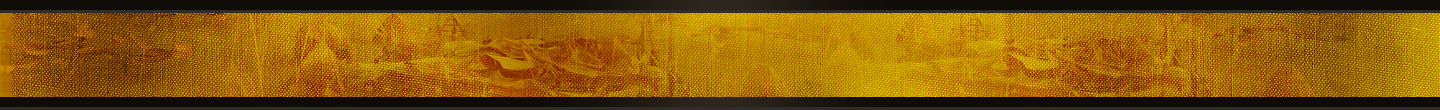
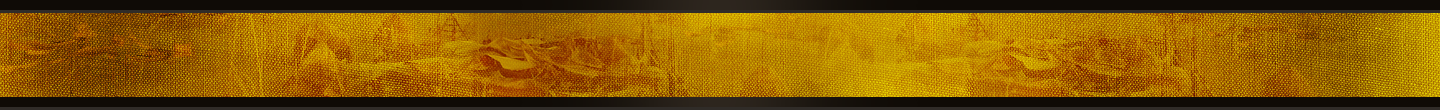
[uodate] menu

diff --git a/src/assets/styles/_header.scss b/src/assets/styles/_header.scss
@@ -2,6 +2,18 @@ header {
     &.desert {
         background: url('assets/images/backgrounds/bg-header-desert.png') no-repeat;
     }
+    &.farm {
+        background: url('assets/images/backgrounds/bg-header-farm.png') no-repeat;
+    }
+    &.trade {
+        background: url('assets/images/backgrounds/bg-header-trade.png') no-repeat;
+    }
+    &.fishing {
+        background: url('assets/images/backgrounds/bg-header-fishing.png') no-repeat;
+    }
+    &.forest {
+        background: url('assets/images/backgrounds/bg-header-forest.png') no-repeat;
+    }
 
     &.no-menu {
         .container {
@@ -68,12 +80,47 @@ header {
                 display: block;
                 position: relative;
                 max-width: 140px;
+                min-height: 110px;
                 padding: 10px 20px;
                 margin: auto;
 
+                &.desert {
+                    &:before {
+                        background: url('assets/images/common/avatar-frame-desert.png') no-repeat;
+                        background-size: contain;
+                        background-position: center center;
+                    }
+                }
+                &.forest {
+                    &:before {
+                        background: url('assets/images/common/avatar-frame-forest.png') no-repeat;
+                        background-size: contain;
+                        background-position: center center;
+                    }
+                }
+                &.trade {
+                    &:before {
+                        background: url('assets/images/common/avatar-frame-trade.png') no-repeat;
+                        background-size: contain;
+                        background-position: center center;
+                    }
+                }
+                &.farm {
+                    &:before {
+                        background: url('assets/images/common/avatar-frame-farm.png') no-repeat;
+                        background-size: contain;
+                        background-position: center center;
+                    }
+                }
+                &.fishing {
+                    &:before {
+                        background: url('assets/images/common/avatar-frame-fishing.png') no-repeat;
+                        background-size: contain;
+                        background-position: center center;
+                    }
+                }
+
                 &:before {
-                    background: url('assets/images/common/avatar-frame-desert.png') no-repeat;
-                    background-position: center center;
                     content: '';
                     position: absolute;
                     width: 100%;
@@ -99,8 +146,10 @@ header {
             align-self: center;
             .logo {
                 max-height: 45px;
-                margin: -30px 20px 0 0;
+                margin: auto 20px auto auto;
                 max-width: 100%;
+                display: block;
+
             }
         }
     }
@@ -246,10 +295,43 @@ app-header {
                         margin: auto;
                         background: #000;
 
+                        &.desert {
+                            &:before {
+                                background: url('assets/images/common/avatar-frame-desert.png') no-repeat;
+                                background-size: contain;
+                                background-position: center center;
+                            }
+                        }
+                        &.forest {
+                            &:before {
+                                background: url('assets/images/common/avatar-frame-forest.png') no-repeat;
+                                background-size: contain;
+                                background-position: center center;
+                            }
+                        }
+                        &.trade {
+                            &:before {
+                                background: url('assets/images/common/avatar-frame-trade.png') no-repeat;
+                                background-size: contain;
+                                background-position: center center;
+                            }
+                        }
+                        &.farm {
+                            &:before {
+                                background: url('assets/images/common/avatar-frame-farm.png') no-repeat;
+                                background-size: contain;
+                                background-position: center center;
+                            }
+                        }
+                        &.fishing {
+                            &:before {
+                                background: url('assets/images/common/avatar-frame-fishing.png') no-repeat;
+                                background-size: contain;
+                                background-position: center center;
+                            }
+                        }
+
                         &:before {
-                            background: url('assets/images/common/avatar-frame-desert.png') no-repeat;
-                            background-position: center center;
-                            background-size: contain;
                             content: '';
                             position: absolute;
                             width: 100%;

diff --git a/src/assets/styles/mediaqueries/_media-568.scss b/src/assets/styles/mediaqueries/_media-568.scss
@@ -4,8 +4,15 @@
     }
 
     header {
-        background-size: auto 80px !important;
+        background-size: auto 70px !important;
 
+        &.no-menu {
+            .container {
+                .logo-container {
+                    margin-top: 7px;
+                }
+            }
+        }
         .container {
             padding: 0 50px;
             background-size: inherit;
@@ -13,25 +20,27 @@
             .menu-container {
                 .burger-menu {
                     margin: 0;
-                    width: 60px;
-                    height: 120px;
+                    width: 50px;
+                    height: 95px;
                     background-size: 200%;
 
                     &:before {
-                        width: 38px;
+                        width: 30px;
                         background-size: contain;
                     }
                 }
             }
             .avatar-container {
                 .avatar {
+                    min-height: 0;
+
                     &:before {
                         background-size: contain;
                     }
                 }
             }
             .logo-container {
-                margin-top: -20px;
+                margin-top: -5px;
                 .logo {
                     // margin-top: 0;
                 }
@@ -66,22 +75,24 @@
             width: 100%;
         }
     }
-    
+
     app-header {
         .menu-expanded {
-            > .container {
+            >.container {
                 padding: 0;
                 .menu-container {
-                padding: 0 50px;
+                    padding: 0 50px;
 
                     .burger-menu {
                         margin: 0;
-                        width: 60px;
-                        height: 120px;
+                        width: 50px;
+                        height: 95px;
                         background-size: 200%;
 
                         &:before {
-                            width: 25px;
+                            width: 18px;
+                            height: 20px;
+                            top: 0;
                             background-size: contain;
                         }
                     }

diff --git a/src/app/components/header/header.component.html b/src/app/components/header/header.component.html
@@ -1,10 +1,13 @@
-<header class="header desert">
+<header class="header" [ngClass]="userDetails.tribe" [class.no-menu]="userDetails.finishedTour == 0">
     <div class="container">
         <div class="menu-container">
             <a class="burger-menu"></a>
         </div>
         <div class="avatar-container">
-            <a href="https://placeholder.com" class="avatar"><img src="http://via.placeholder.com/100x100"></a>
+            <a class="avatar" [ngClass]="userDetails.tribe">
+            	<img [src]="userDetails.profilePicture" *ngIf="userDetails.profilePicture;">
+                <img src="assets/images/common/placeholder-profile-desert.png" *ngIf="!userDetails.profilePicture;">
+            </a>
         </div>
         <div class="logo-container"><img src="assets/images/common/bagani-logo.png" alt="" class="logo"></div>
     </div>
@@ -25,7 +28,10 @@
             </li>
             <li class="challenges"><a>Challenges</a></li>
             <li class="logout"><a>
-				<span class="avatar"><img src="http://via.placeholder.com/100x100"></span>
+				<span class="avatar" [ngClass]="userDetails.tribe">
+					<img [src]="userDetails.profilePicture" *ngIf="userDetails.profilePicture;">
+                	<img src="assets/images/common/placeholder-profile-desert.png" *ngIf="!userDetails.profilePicture;">
+				</span>
 				<span>Logout</span>
 			</a></li>
         </ul>

diff --git a/src/assets/styles/_unregistered.scss b/src/assets/styles/_unregistered.scss
@@ -287,18 +287,26 @@ app-unregistered {
 
         .slide {
             padding: 0 10px;
+            max-height: 365px;
+            overflow: hidden;
+
             img {
-                width: 95%;
+                max-width: 100%;
                 position: relative;
                 border: solid 6px #0f0b06;
+                cursor: pointer;
+                width: inherit;
+                display: block;
+                height: 325px;
             }
             .name {
                 background: url('assets/images/backgrounds/bg-title-creature-name.png') center center no-repeat;
                 background-size: cover;
                 padding: 15px 0 30px;
-                margin-top: -25px;
+                margin: -25px auto 0;
                 width: 95%;
                 position: relative;
+
                 p {
                     text-align: center;
                     margin: 0;

diff --git a/src/assets/styles/_sansinukob.scss b/src/assets/styles/_sansinukob.scss
@@ -240,19 +240,26 @@ app-sansinukob {
 
         .slide {
             padding: 0 10px;
+            max-height: 365px;
+            overflow: hidden;
+
             img {
-                width: 95%;
+                max-width: 100%;
                 position: relative;
                 border: solid 6px #0f0b06;
                 cursor: pointer;
+                width: inherit;
+                display: block;
+                height: 325px;
             }
             .name {
                 background: url('assets/images/backgrounds/bg-title-creature-name.png') center center no-repeat;
                 background-size: cover;
                 padding: 15px 0 30px;
-                margin-top: -25px;
+                margin: -25px auto 0;
                 width: 95%;
                 position: relative;
+
                 p {
                     text-align: center;
                     margin: 0;

diff --git a/src/app/app.module.ts b/src/app/app.module.ts
@@ -30,6 +30,7 @@ import { QuestionsService } from './services/questions.service';
 import { SansinukobComponent } from './components/sansinukob/sansinukob.component';
 import { TourComponent } from './components/tour/tour.component';
 import { HeaderComponent } from './components/header/header.component';
+import { UserService } from './services/user.service';
 
 @NgModule({
   declarations: [
@@ -74,7 +75,8 @@ import { HeaderComponent } from './components/header/header.component';
     AngAlamatService,
     MythicalCreaturesService,
     RecapService,
-    QuestionsService
+    QuestionsService,
+    UserService
   ],
   bootstrap: [AppComponent]
 })

diff --git a/src/app/components/header/header.component.ts b/src/app/components/header/header.component.ts
@@ -1,4 +1,5 @@
 import { Component, OnInit } from '@angular/core';
+import { UserService } from '../../services/user.service';
 
 @Component({
   selector: 'app-header',
@@ -7,9 +8,22 @@ import { Component, OnInit } from '@angular/core';
 })
 export class HeaderComponent implements OnInit {
 
-  constructor() { }
+	userDetails = [];
+
+  constructor(
+  	private _getUserService: UserService
+  	) { }
 
   ngOnInit() {
+  	this.getUserDetails();
+  }
+
+  getUserDetails() {
+  	this._getUserService.GetUser().subscribe(
+            (data) => {
+                this.userDetails = data.userDetails;
+            }
+        );
   }
 
 }

diff --git a/src/app/services/user.service.ts b/src/app/services/user.service.ts
@@ -1,0 +1,12 @@
+import { Injectable } from '@angular/core';
+import { HttpClient } from '@angular/common/http';
+import { Observable } from 'rxjs/Observable';
+
+@Injectable()
+export class UserService {
+    constructor(private http: HttpClient) { }
+
+    GetUser(): Observable<any> {
+        return this.http.get('assets/data/user-details.json');
+    }
+}
